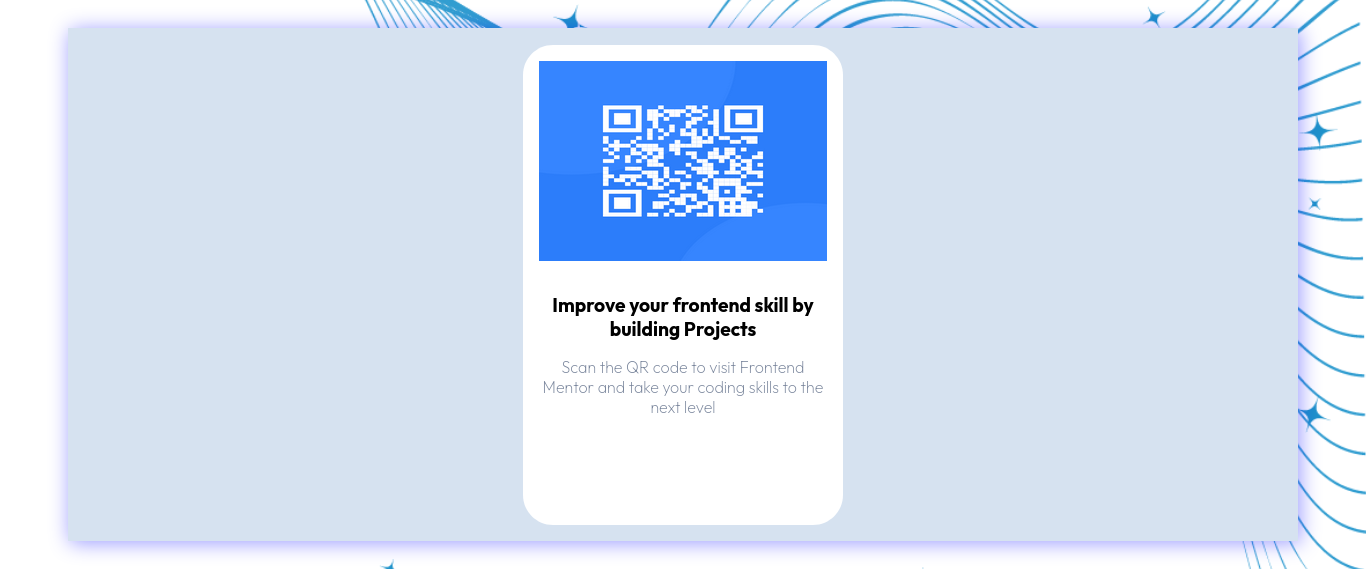
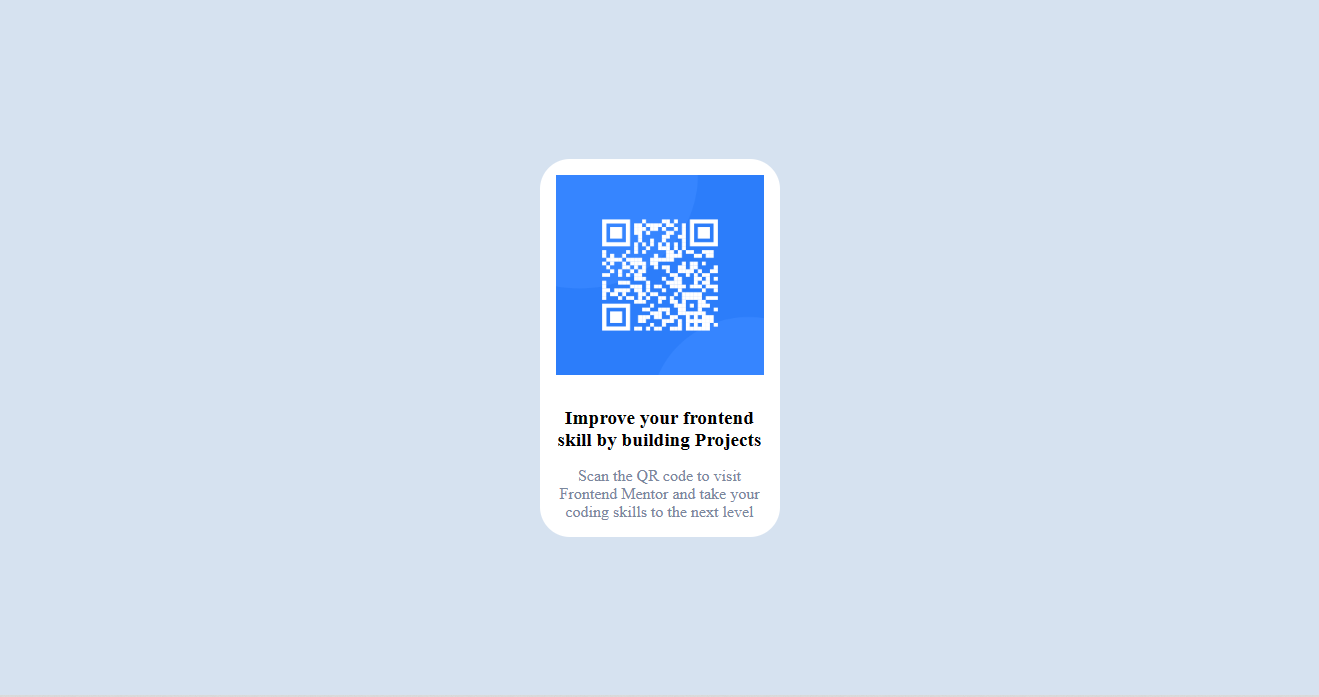
i took some of the corrections given to me from frontendmentor users and adjust the neccssary making it more professional especially the proper use of alt in images

Changed region(s): [[0.0, 0.0, 1.0, 1.0]]

diff --git a/style.css b/style.css
@@ -6,21 +6,9 @@
     padding: 0;
 }
 
-main{
-    width: 100%;
-    height: 100vh;
-    background-image: url(images/blue.png);
-    background-position: center;
-    background-repeat: no-repeat;
-    display: flex;
-    justify-content: center;
-    align-items: center;
-    background-size: cover;
-}
-
 .container{
-    width: 90%;
-    height: 90%;
+    width: 100%;
+    min-height: 100vh;
     display: flex;
     justify-content: center;
     align-items: center;
@@ -29,14 +17,16 @@ main{
 }
 
 .inner-container{
-    width: 20rem;
-    height: 30rem;
+    max-width: 15rem;
     background-color: hsl(0, 0%, 100%);
     border-radius: 30px;
+    margin: 1rem;
 }
 
+
+
 .img-container{
-    width: 100%;
+    max-width: 100%;
     border-radius: 30px;
     display: flex;
     justify-content: center;
@@ -70,13 +60,12 @@ main{
 
 @media only screen and (max-width: 800px) {
     .container{
-        width: 100%;
-        height: 100vh;
+        max-width: 100%;
+        min-height: 100vh;
     }
     
     .inner-container{
-        width: 20rem;
-        height: 80%;
+        max-width: 15rem;
     }
   }
 

diff --git a/index.html b/index.html
@@ -15,10 +15,10 @@
             <div class="inner-container">
 
                 <div class="img-container">
-                    <img src="images/image-qr-code.png" alt="image-qr-code.png" class="img">
+                    <img src="images/image-qr-code.png" alt="QR code to frontendmentor.io" class="img">
                 </div>
                 <div class="text-container">
-                    <p class="head-text">Improve your frontend skill by building Projects</p>
+                    <h1 class="head-text">Improve your frontend skill by building Projects</h1>
                     <p class="sub-text">Scan the QR code to visit Frontend Mentor and take your coding skills to the next level</p>
                 </div>
 
